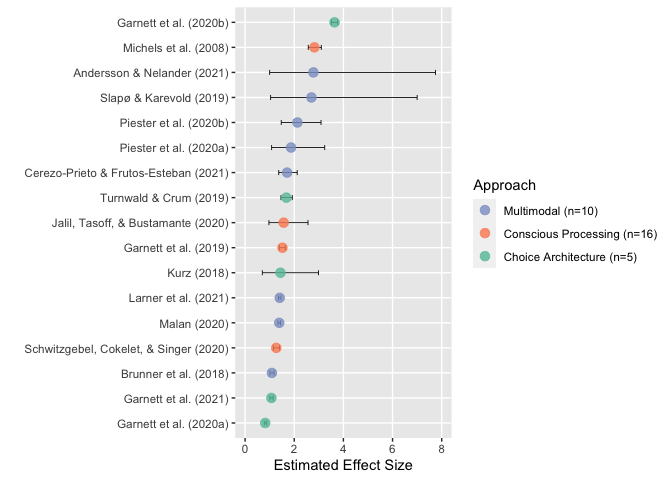
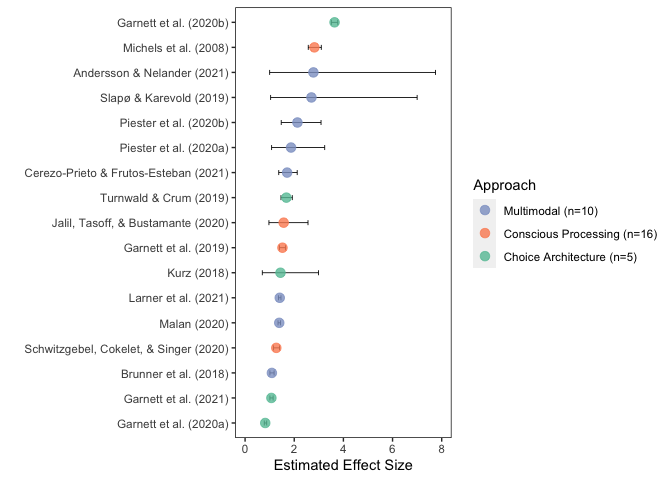
changed theme elements across all figures

Changed region(s): [[0.3438, 0.0, 0.6875, 0.9375]]

diff --git a/markdowns/visuals.md b/markdowns/visuals.md
@@ -65,7 +65,7 @@ ggplot(sr.dataset,aes(x=approach,y=num.study,fill=effect.dir)) +
   scale_fill_brewer(palette ="Pastel1") +
   xlab(" ") + 
   ylab("Rate of Success") +
-  theme(panel.border=element_rect(color="black"),panel.grid.minor=element_blank())
+  theme(panel.border=element_rect(fill=NA),panel.background=element_blank(),panel.grid.minor=element_blank())
 ```
 
 ![](visuals_files/figure-gfm/unnamed-chunk-3-1.png)<!-- -->
@@ -121,7 +121,7 @@ ggplot(fixed.effect,aes(x=effect.mag,y=approach,fill=approach)) +
   xlab("Odds Ratio") + 
   ylab(" ") +
   labs(fill=" ") +
-  theme(axis.ticks.y=element_blank(),axis.text.y=element_blank(),panel.grid.minor=element_blank())
+  theme(panel.border=element_rect(fill=NA),panel.background=element_blank(),axis.ticks.y=element_blank(),axis.text.y=element_blank(),panel.grid.minor=element_blank())
 ```
 
 ![](visuals_files/figure-gfm/unnamed-chunk-7-1.png)<!-- -->
@@ -142,7 +142,7 @@ ggplot(fixed.effect,aes(x=effect.mag,y=study.title,color=approach)) +
   labs(color="Approach") +
   scale_color_brewer(breaks=c("Multimodal","Conscious Processing","Choice Architecture"),palette="Set2",labels=c("Multimodal (n=10)","Conscious Processing (n=16)","Choice Architecture (n=5)")) +
   scale_y_discrete(limits=c("Garnett et al. (2020a)","Garnett et al. (2021)","Brunner et al. (2018)","Schwitzgebel, Cokelet, & Singer (2020)","Malan (2020)","Larner et al. (2021)","Kurz (2018)","Garnett et al. (2019)","Jalil, Tasoff, & Bustamante (2020)","Turnwald & Crum (2019)","Cerezo-Prieto & Frutos-Esteban (2021)","Piester et al. (2020a)","Piester et al. (2020b)","Slapø & Karevold (2019)","Andersson & Nelander (2021)","Michels et al. (2008)","Garnett et al. (2020b)")) + 
-  theme(panel.grid.minor=element_blank())
+  theme(panel.background=element_blank(),panel.border=element_rect(fill=NA),panel.grid.minor=element_blank())
 ```
 
 ![](visuals_files/figure-gfm/unnamed-chunk-8-1.png)<!-- -->
